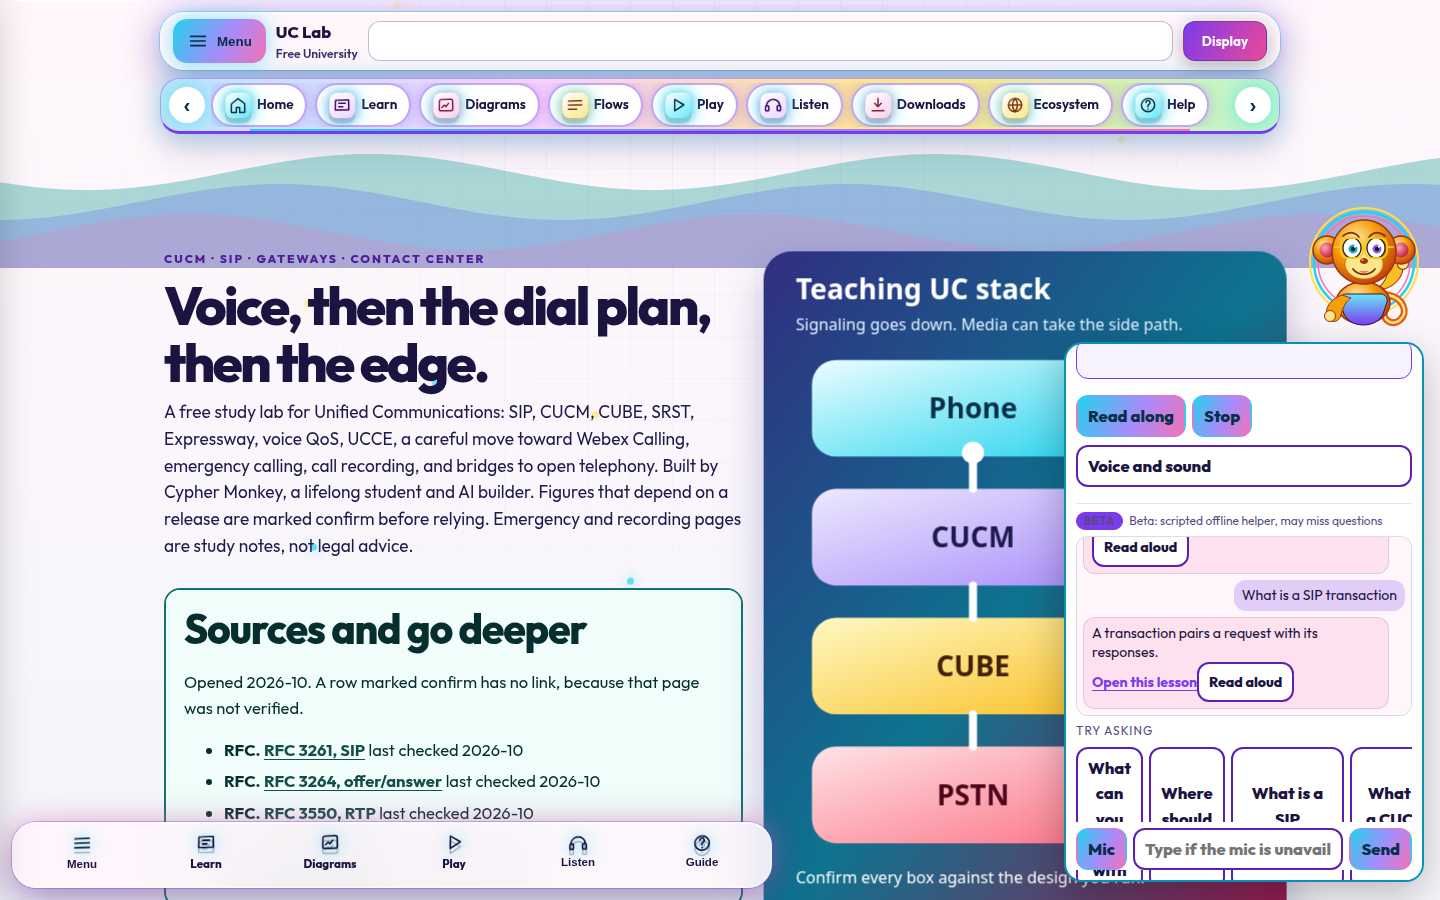
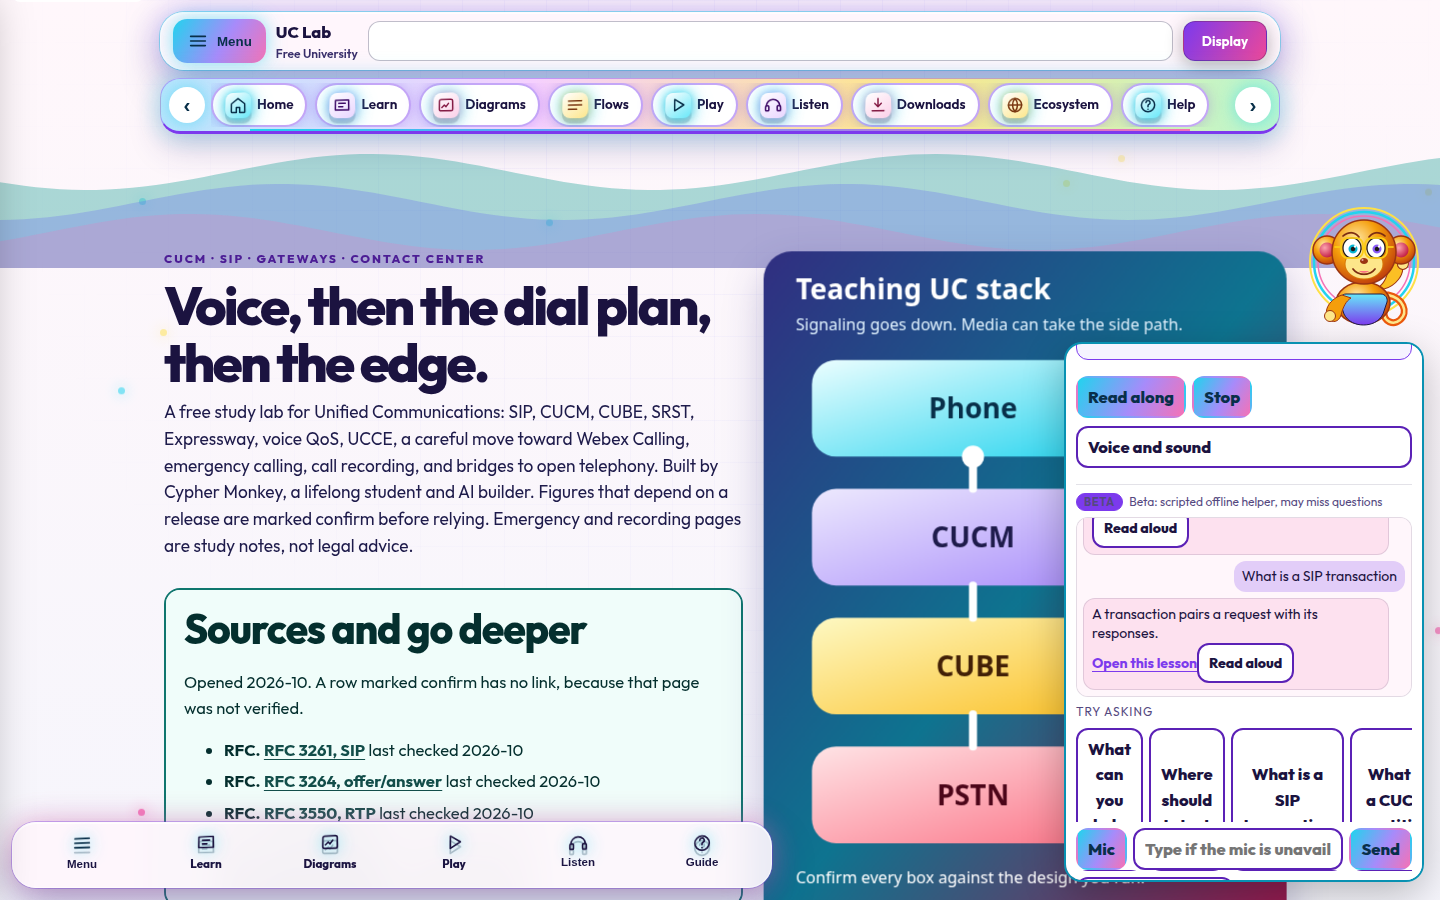
Widen the phone chat field and refuse a pet-name question.
The unlabeled chat label was sitting in the flex row, so the input collapsed to about 22px. It now wraps with a 180px minimum. "name for my dog" falls back unless a real UC term is present. The score floor is unchanged.

Changed region(s): [[0.75, 0.4044, 1.0, 0.9333], [0.75, 0.9644, 0.8438, 0.9956], [0.6562, 0.4978, 0.6875, 0.5289]]

diff --git a/tests/lab.spec.js b/tests/lab.spec.js
@@ -88,7 +88,7 @@ test("offline reload still opens a lesson and the guide", async ({ page, context
   await page.waitForFunction(async () => {
     const ready = await navigator.serviceWorker.ready;
     if (!ready.active) return false;
-    const cache = await caches.open("uc-university-r11");
+    const cache = await caches.open("uc-university-r12");
     const index = await cache.match("./js/content/ucbot-index.json");
     const engine = await cache.match("./shared/pybot-chat/engine.js");
     const lesson = await cache.match("./rooms/sip-transactions.html");
@@ -120,6 +120,25 @@ test("dial-plan desk is labeled as a simulation", async ({ page }) => {
   await page.locator("[data-css]").selectOption("internal");
   await page.locator("[data-sim-run]").click();
   await expect(page.locator("[data-sim-out]")).toContainText("cannot see it");
+});
+
+test("chat input is at least 180px wide on a phone", async ({ browser }) => {
+  for (const viewport of [
+    { width: 390, height: 844 },
+    { width: 390, height: 430 },
+  ]) {
+    const context = await browser.newContext({ viewport, hasTouch: true, isMobile: true });
+    await context.addInitScript(seen);
+    const page = await context.newPage();
+    await page.goto("/index.html");
+    await page.locator(".monkey-btn").click();
+    const input = page.locator("#py-chat-input");
+    await expect(input).toBeVisible();
+    const width = await input.evaluate((el) => el.getBoundingClientRect().width);
+    expect(width, `input width at ${viewport.width}x${viewport.height}`).toBeGreaterThanOrEqual(180);
+    await expect(page.locator(".py-chat-form button[type=submit]")).toBeVisible();
+    await context.close();
+  }
 });
 
 test("chat input and Send stay on screen at 390x430", async ({ browser }) => {

diff --git a/shared/pybot-chat/engine.js b/shared/pybot-chat/engine.js
@@ -377,6 +377,16 @@ function hasDomainTerm(text, domain, syn, pool, freq) {
   return weak >= 1 && foreign === 0;
 }
 
+/* Pet names and "a name for ..." are not lab questions unless a real UC term is present. */
+function casualNaming(text) {
+  const q = normalize(text);
+  const pet = /\b(dog|dogs|cat|cats|pet|pets|puppy|puppies|kitten|kittens|goldfish|parrot|hamster)\b/.test(q);
+  const naming = /\b(a name|name for|name my|names for|nickname|what to name|should i name)\b/.test(q);
+  if (!pet && !naming) return false;
+  const parts = q.split(" ").filter(Boolean);
+  return !parts.some((word) => STRONG_WORDS.has(word) || STRONG_WORDS.has(stem(word)));
+}
+
 /* "agent" and "queue" are ordinary words. Together they are not a lesson title.
    A query made only of those words must not open the UCCE page. */
 function thinQueueOnly(text) {
@@ -1009,6 +1019,7 @@ export function createRetriever(index) {
     const titled = docs.some((doc) => doc.titleNorm.length >= 8 && normalize(routed.searchText).includes(doc.titleNorm));
     if (!titled && !hasDomainTerm(routed.searchText, domain, syn, pool, freq)) return fallbackAnswer([], routed.followMode, true);
     if (thinQueueOnly(routed.searchText)) return fallbackAnswer([], routed.followMode, true);
+    if (casualNaming(routed.searchText)) return fallbackAnswer([], routed.followMode, true);
     const seed = matchSeed(routed.searchText);
     if (seed) return fromSeed(seed, limited);
     const qTerms = queryTokens(routed.searchText, syn, pool, knownSet, seedPool, freq);

diff --git a/shared/pybot-chat/chat.css b/shared/pybot-chat/chat.css
@@ -45,10 +45,23 @@
 .py-msg-code { margin: 6px 0 0; padding: 6px; overflow: auto; border-radius: 8px; background: var(--code-bg, var(--bg)); font-size: 0.75rem; }
 .py-chat-try { margin: 0; font-size: 0.75rem; text-transform: uppercase; letter-spacing: 0.08em; color: var(--muted); }
 .py-chat-examples, .py-chat-chips { display: flex; gap: 6px; overflow-x: auto; }
-.py-chat-form { display: flex; gap: 6px; align-items: center; }
+.visually-hidden {
+  position: absolute;
+  width: 1px;
+  height: 1px;
+  padding: 0;
+  margin: -1px;
+  overflow: hidden;
+  clip: rect(0, 0, 0, 0);
+  white-space: nowrap;
+  border: 0;
+}
+.py-chat-form { display: flex; flex-wrap: wrap; gap: 6px; align-items: center; width: 100%; position: relative; }
 .py-chat-form input {
-  flex: 1;
-  min-width: 0;
+  flex: 1 1 200px;
+  min-width: 180px;
+  width: auto;
+  max-width: 100%;
   min-height: 44px;
   padding: 6px 10px;
   border-radius: 10px;

diff --git a/sw.js b/sw.js
@@ -1,6 +1,6 @@
 /* Same-origin cache for the UC university shell.
    Scope is the directory that contains this file. Register with { scope: "./" }. */
-var CACHE = "uc-university-r11";
+var CACHE = "uc-university-r12";
 var SHELL = [
   "./",
   "./index.html",
